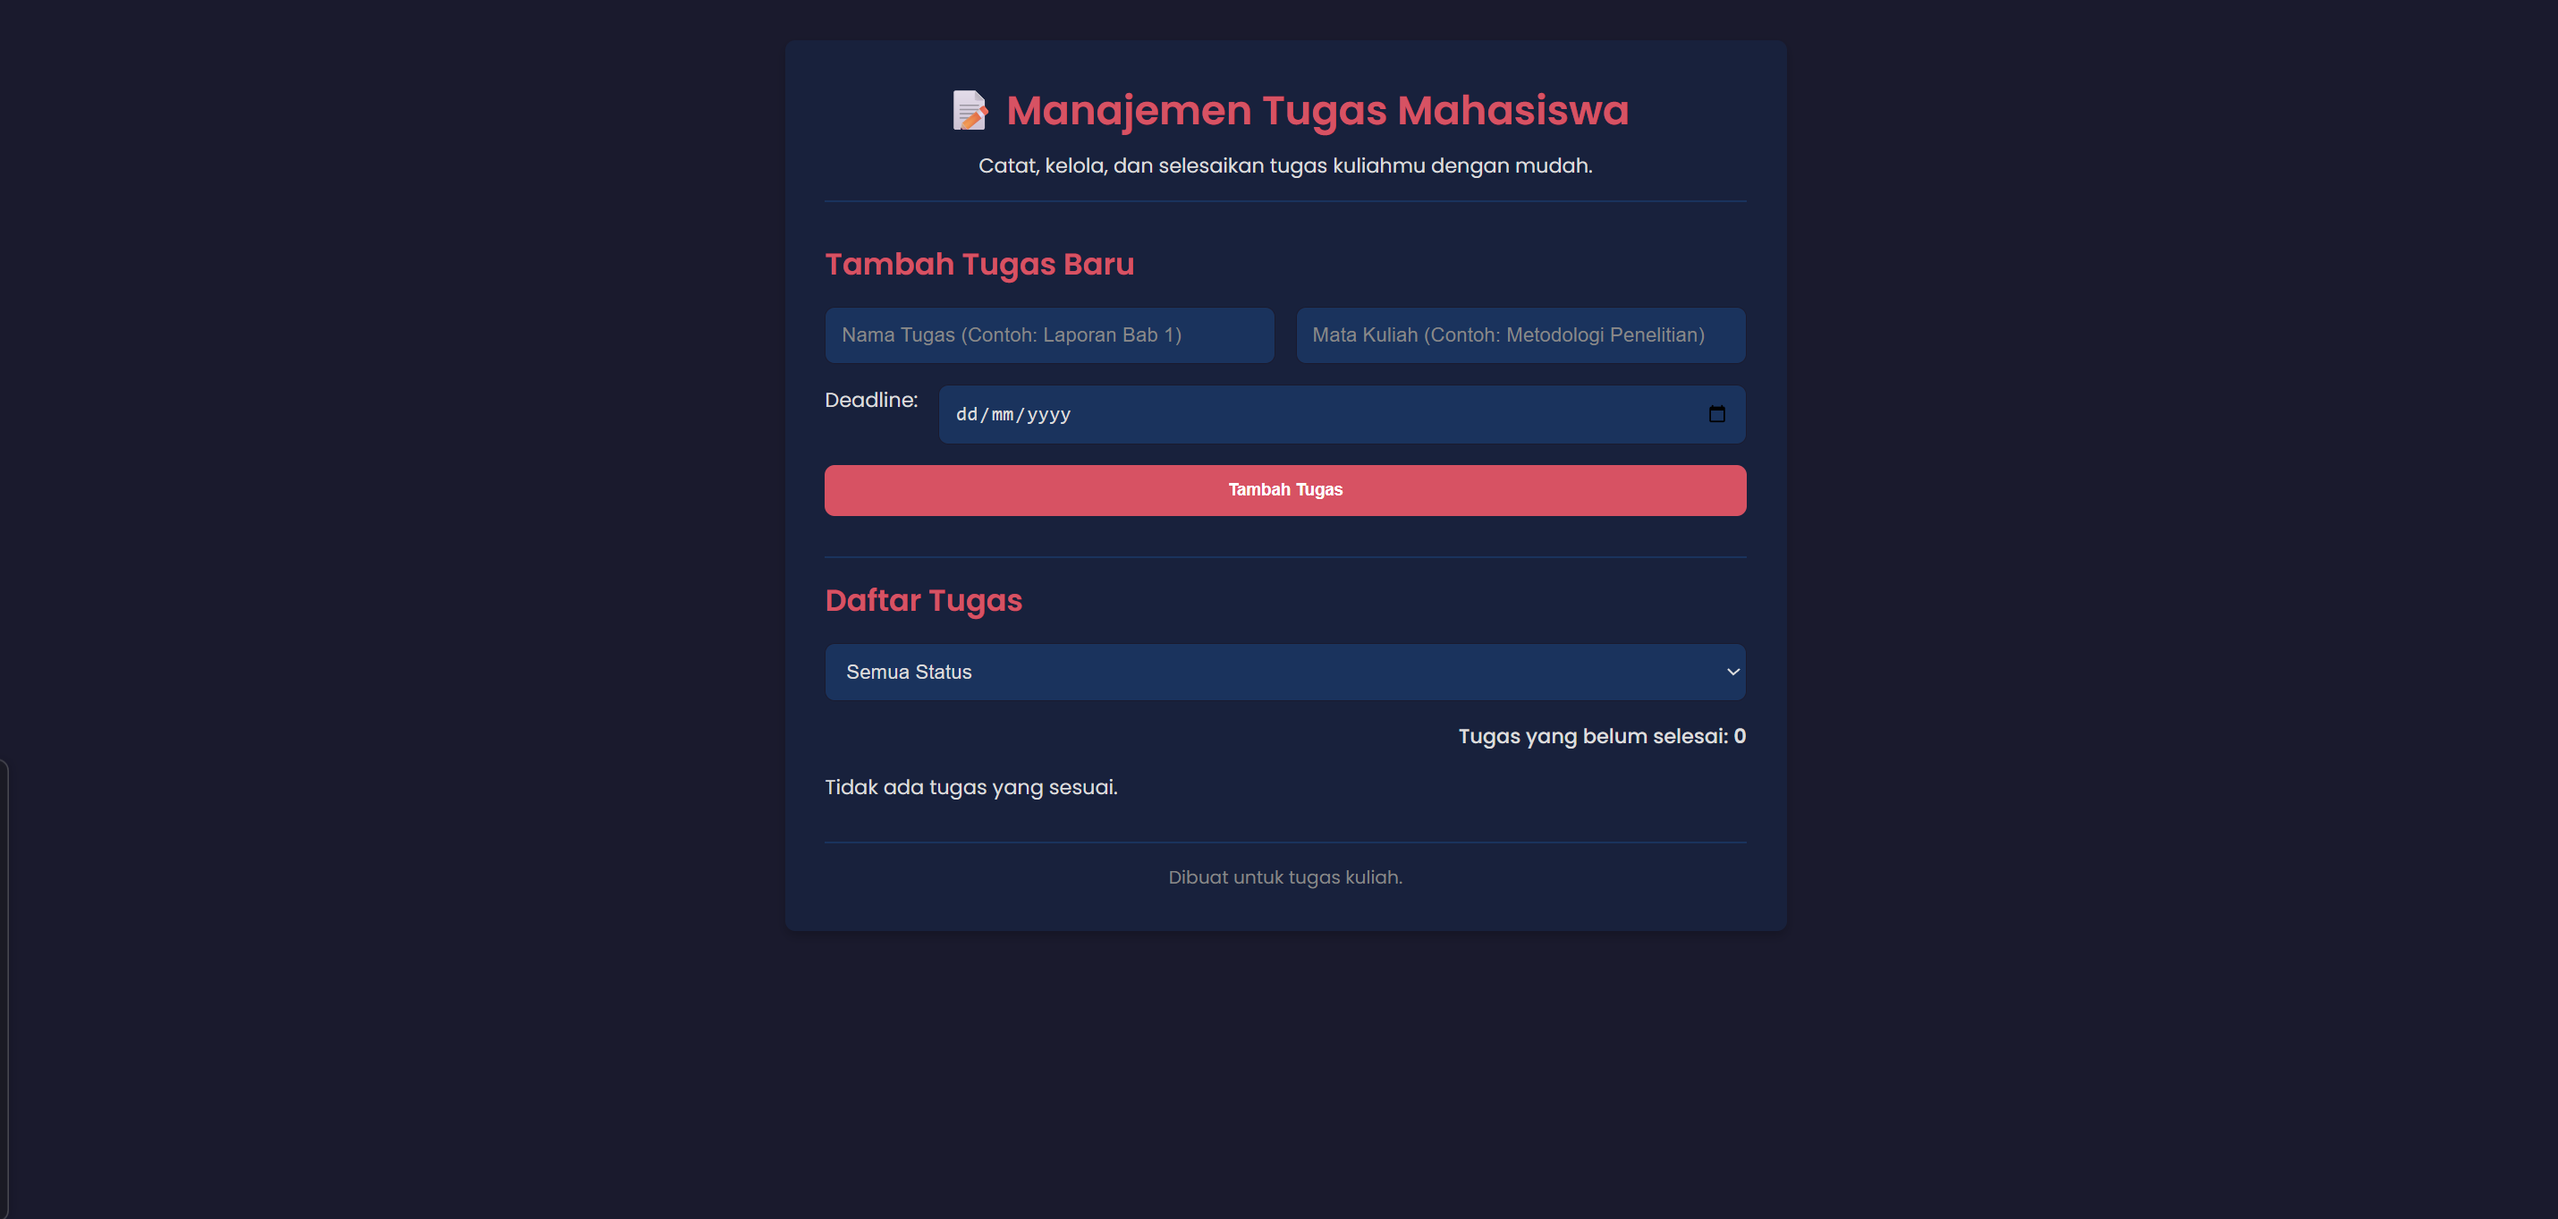
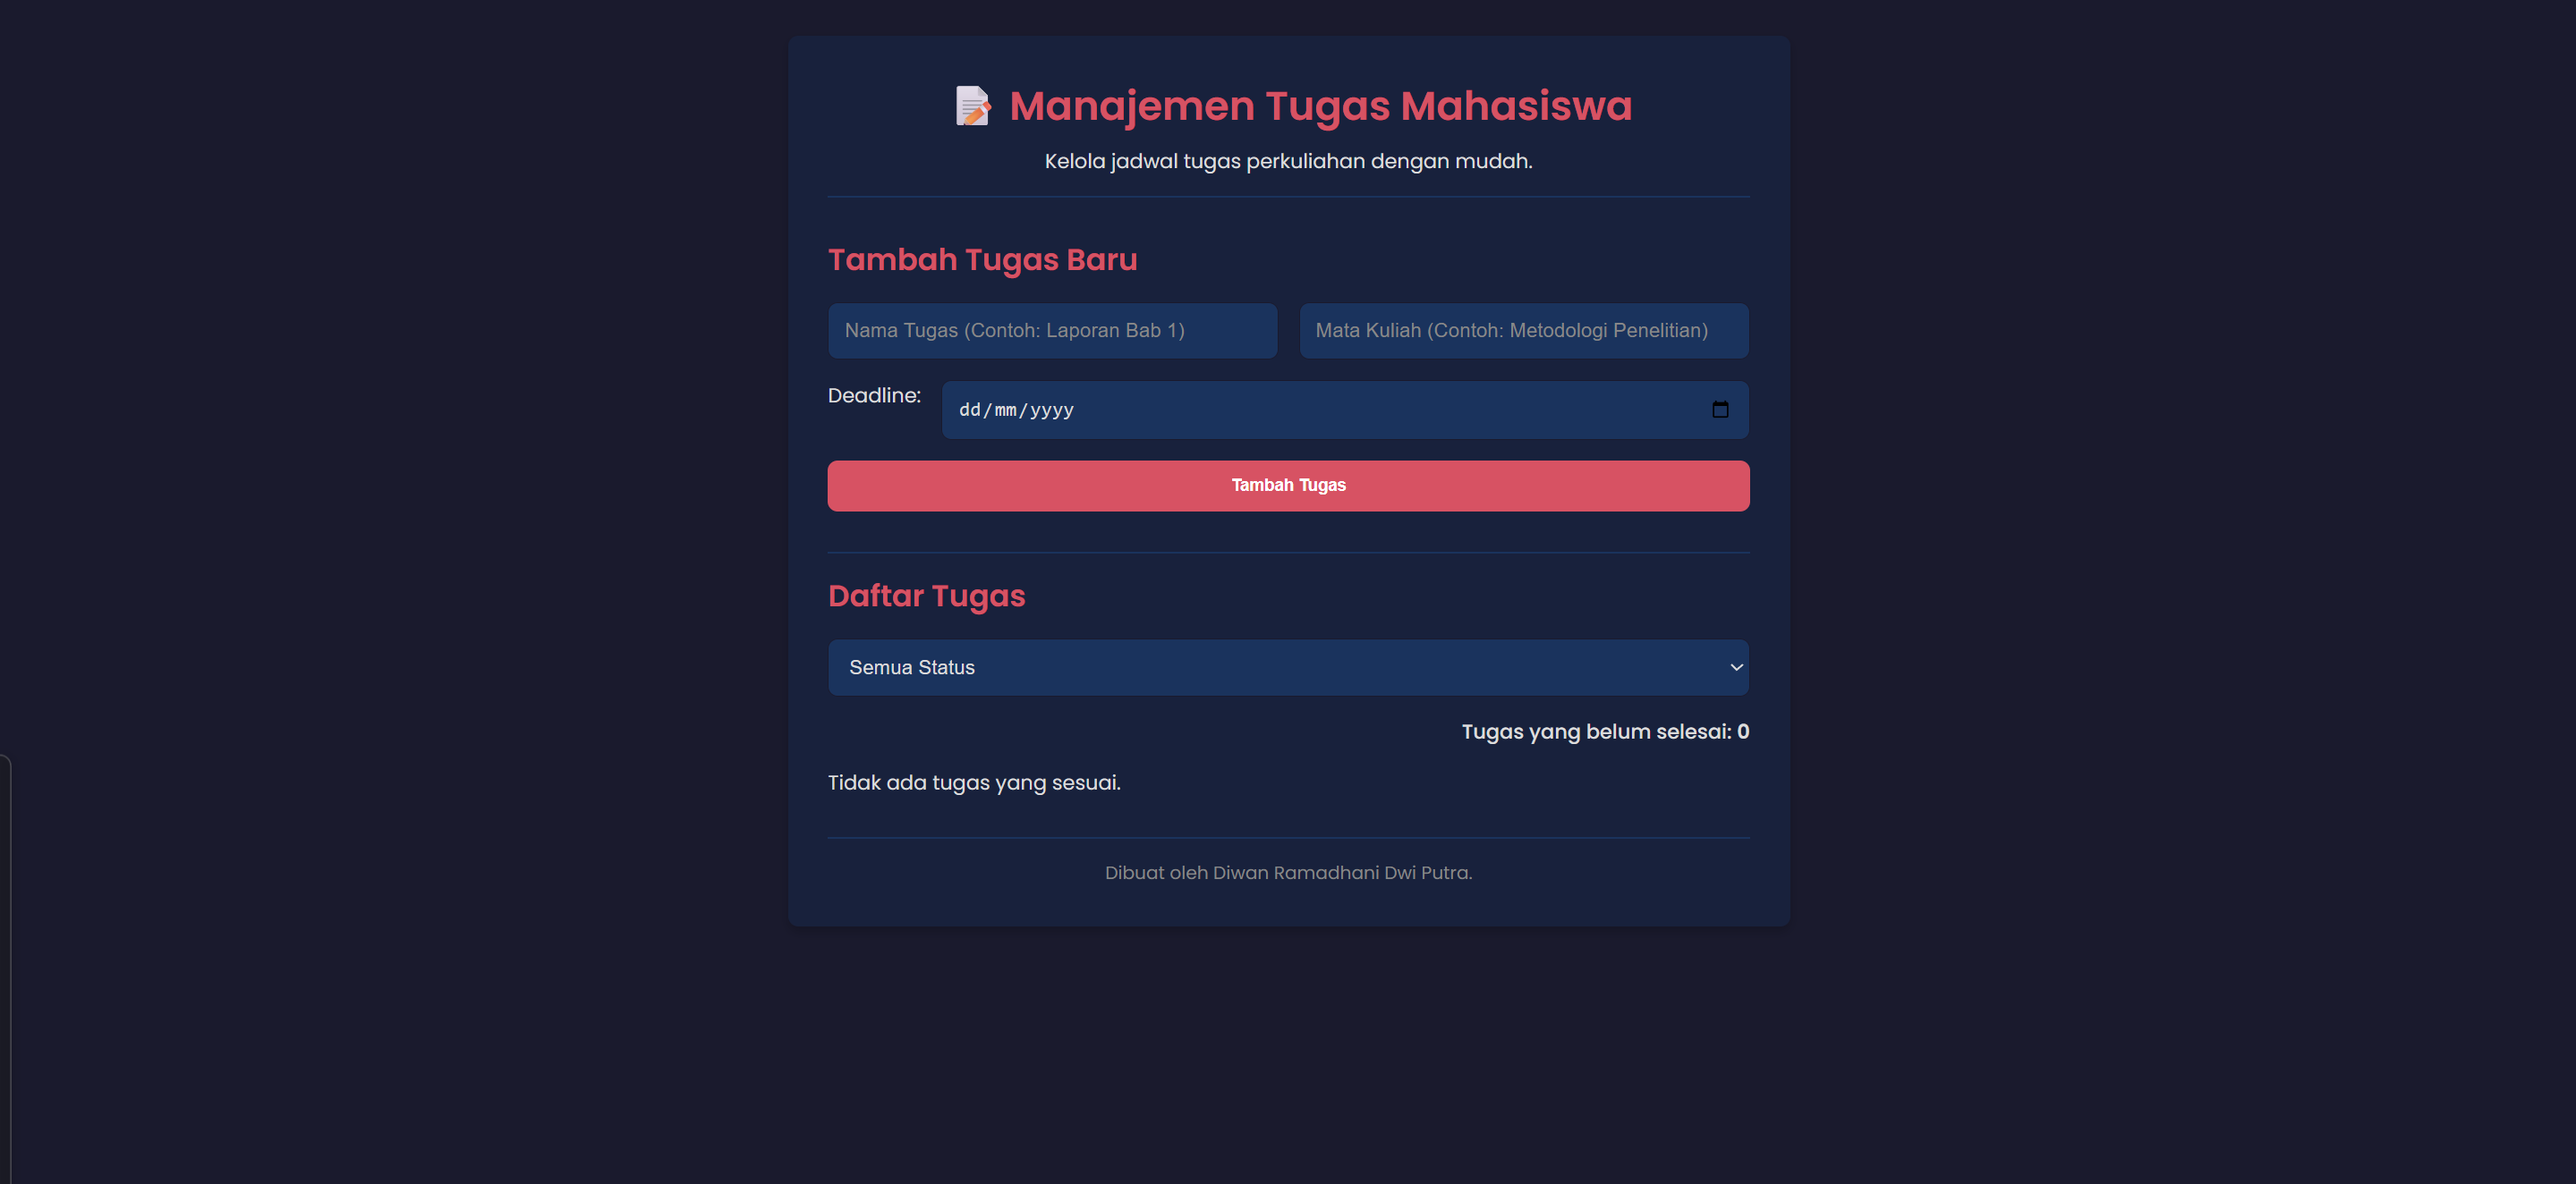
update gambar README.md and index.html

diff --git a/Diwanramadhani_123140116_pertemuan1/index.html b/Diwanramadhani_123140116_pertemuan1/index.html
@@ -11,7 +11,7 @@
     <div class="app-container">
         <header>
             <h1>📝 Manajemen Tugas Mahasiswa</h1>
-            <p>Catat, kelola, dan selesaikan tugas kuliahmu dengan mudah.</p>
+            <p>Kelola jadwal tugas perkuliahan dengan mudah.</p>
         </header>
 
         <main>
@@ -49,7 +49,7 @@
         </main>
         
         <footer>
-            <p>Dibuat untuk tugas kuliah.</p>
+            <p>Dibuat oleh Diwan Ramadhani Dwi Putra.</p>
         </footer>
     </div>
 
